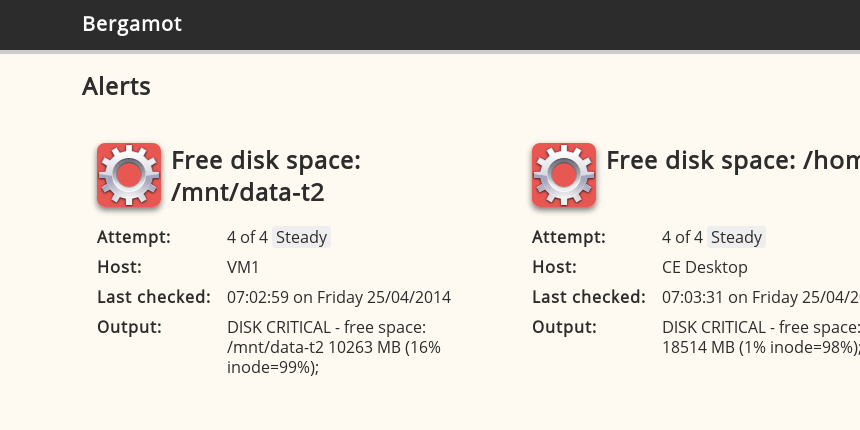
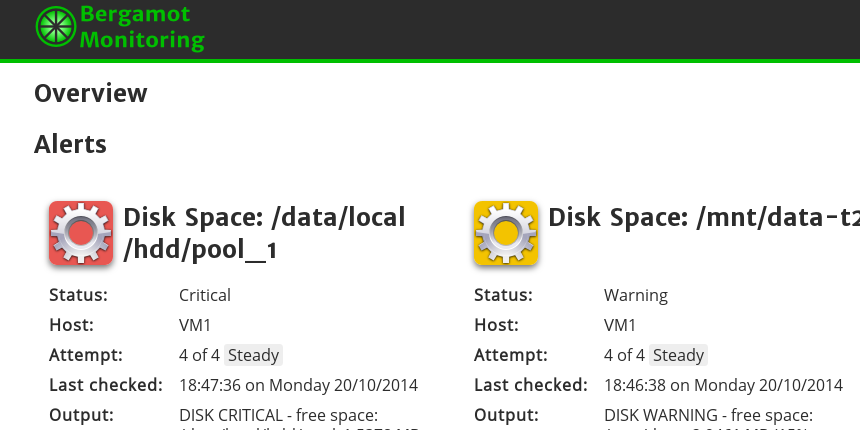
Update site content

diff --git a/src/main/views/faq.md b/src/main/views/faq.md
@@ -2,17 +2,22 @@
 
 ### What is the current state of play?
 
-Bergamot is currently in it's fledgling stages, only being a few days work so far.  It is 
-being actively developed at the moment and will evolve quickly.  As such it is very much an 
-alpha.  But please feel free to get involved, I'd be interested to hear people's toughts, 
-comments, ideas.  I'd be greatful for people willing to give it a try and provide feedback.
+Bergamot Monitoring is a version 1 release, at this stage the core architecture 
+of Bergamot Monitoring is stable but some features are lacking.  The version 1 
+release has all the basic featured needed for a monitoring system and would be 
+acceptable for deployment, feedback would be appreciated.  There will be on 
+going releases, hopefully on a relatively short release cycle, which will focus 
+on adding more features.
 
 ### Is Bergamot a drop-in replacement for Nagios?
 
-That is the plan.  Bergamot is capable of importing Nagios configuration.  Bergamot does 
-not implement all the semantics of Nagios, so there will be some edge-cases where Bergamot 
-is not a drop-in replacement.  Bergamot is perfectly capable of executing Nagios plugins 
-(checks), so worst case you should only need to alter some configuration.
+To an extent.  Bergamot Monitoring is capable of executing Nagios plugins and 
+of directly executing plugins via NRPE.  Bergamot Monitoring does not directly 
+utilise the Nagios configuration format, however a conversion tool can convert 
+a Nagios configuration to Bergamot Monitoring's configuration.  Bergamot 
+Monitoring also does not support Nagios Event Broker modules not does it support 
+LiveStatus.  Bergamot Monitoring has an easy migration path but is not a drop in 
+replacement.
 
 ### Why did you create Bergamot?
 
@@ -31,29 +36,31 @@ modern design, written in a safe, fast and clean language.
 
 Out of the box, Bergamot gives you distributed monitoring.  Workers are loosely coupled via 
 message queues to the core scheduling / result processing.  This single change solves 
-the biggest failing of Nagios, granted this is partially tackled by Naemon.
-
-Read the developer docs, for more details.
+the biggest failing of Nagios.
 
 ### Can Bergamot distribute / load-balance plugin execution?
 
-Yes.  Bergamot uses RabbitMQ by default to queue messages between the Bergamot Master daemon 
-and Bergamot worker daemons.  Routing of messages is flexible and configurable.  Therefore it 
+Yes.  Bergamot uses RabbitMQ by default to queue messages between the Bergamot Master nodes 
+and Bergamot worker nodes.  Routing of messages is flexible and configurable.  Therefore it 
 is possible to have multiple workers executing checks (load-balancing) and also to distribute 
 checks between different queues (distributed monitoring).  There is no limit to the number of 
 workers which can be running, or to the number of queues which can be used.
 
 ### Can Bergamot be configured live?
 
-You bet ya (it will be able to soon).  You can add checks, live, via the UI.  There is no 
-need to restart Bergamot to load configuration changes.  Configuration and state is persisted 
-into a PostgreSQL database.  You will also be able to import configuration, whilst Bergamot 
-is running.  The aim is not never have to restart Bergamot.
+You bet ya.  You can add checks, live, via the UI and API.  Effort is taken to apply 
+configuration changes atomically and with least impact.  The intention is to support small 
+and constant configuration changes.  Modern infrastructures are flexible and changing often, 
+a monitoring system need to cope with this.  Coupled with clustering of all Bergamot Monitoring 
+daemons and the lack of any single point of failure, the aim is not Bergamot Monitoring to have 
+high availability out of the box.
 
 ### Does Bergamot have an API?
 
-It will have.  Clients will be able to execute RPC calls and listen to events.  This will be 
-accessible over RabbitMQ and web-sockets.
+Yes.  Bergamot Monitoring has a rich REST based web services API.  The API can be used to 
+perform any action that can be performed via the web user interface.  In addition a webs socket 
+API can be used to receive realtime updates on checks.  Should more integration be required, 
+the message queues can be used where required.
 
 ### Why did you write it in Java?
 
@@ -75,16 +82,17 @@ Yes.  It is licensed under the terms of the GNU Lesser General Public License (L
 
 ### Does Bergamot support Nagios Event Broker Modules?
 
-No and it probably never will.
+No and it never will!
 
 ### Can Bergamot execute Nagios plugins (checks) ?
 
-Yes.
+Yes and it can talk NRPE natively.
 
 ### Does Bergamot support Livestatus?
 
-Not currently, however we might implement some form of support to allow UI's developed for 
-Nagios to be used with Bergamot.
+No and it probably will not.  It would require alot of work to map between the 
+Bergamot Monitoring data structures and that of Livestatus as well as some 
+differences in the semantic behaviour.
 
 ### Where did the name come from?
 

diff --git a/src/main/views/docs/user/ref/config.md b/src/main/views/docs/user/ref/config.md
@@ -22,7 +22,7 @@ except that every XML file is valid.  Each XML file must start with the
 
     <bergamot site="demo.bergamot-monitoring.org">
         <!-- Configuration elements here -->
-    </bergamot>;
+    </bergamot>
     
 The site attribute corellates configuration for a particular site.  One Bergamot 
 instance is capable of monitoring many, disconnected and isolated sites.  
@@ -83,31 +83,31 @@ will inherit the service `check_load`.  The notification and host check configur
 The service `check_load` would itself inherit from the service `generic-service`.  As such it would inherit the notification and 
 scheduling configuration from `generic-service`.
 
-## Recommended Configuration Directory Structure
+## Suggested Directory Structure
 
     /site.name
-	/templates
-	    /clusters.xml
-	    /commands.xml
-	    /contacts.xml
-	    /hosts.xml
-	    /resources.xml
-	    /services.xml
-	    /traps.xml
-	/global
-	    /contacts.xml
-	    /groups.xml
-	    /locations.xml
-	    /time-periods.xml
-	/some_service
-	    /templates
-		/clusters.xml
-		/hosts.xml
-		/resources.xml
-		/services.xml
-		/traps.xml
-	    /clusters.xml
-	    /hosts.xml
+        /global
+            /contacts.xml
+            /groups.xml
+            /locations.xml
+            /time-periods.xml
+            /templates
+                /clusters.xml
+                /commands.xml
+                /contacts.xml
+                /hosts.xml
+                /resources.xml
+                /services.xml
+                /traps.xml
+        /some_service
+            /templates
+            /clusters.xml
+            /hosts.xml
+            /resources.xml
+            /services.xml
+            /traps.xml
+            /clusters.xml
+            /hosts.xml
 
 ## Common Attributes and Elements
 
@@ -128,6 +128,10 @@ Every check configuration object has a set of common attributes and elements whi
 `<summary>...</summary>` The summary (name displayed within the Web Interface) of the object.
 
 `<description>...</description>` The long (multi-line) description of the object, used within the Web Interface.
+
+`<parameter name="...">...</parameter>` All configuration object can have arbitrary name value pair parameters defined, 
+these can then be referenced in value expressions, allowing for configuration to be defined where logical rather then 
+where it is defined.  
 
 ## Configuring A Location
 
@@ -316,6 +320,26 @@ To make life easier, a more specific Command can be defined, for example:
         <parameter name="command">check_load</parameter>
     </command>
 
+You can use the expression language to pull parameters from related objects and 
+to find the first non-null value.  For example, for SNMP checks we can define 
+the SNMP community name at the `<location>` level and use this as the default 
+for all hosts in that location, permitting overriding at the host level.
+
+    <location name="my-datacentre">
+        <parameter name="snmp_community">public</parameter>
+    </location>
+    
+    <host name="some-host" location="my-datacentre">
+    </host>
+    
+    <host name="another-host" location="my-datacentre">
+        <parameter name="snmp_community">private</parameter>
+    </host>
+    
+    <command name="check_snmp_name">
+        <parameter name="snmp_community">#{coalesce(host.getParameter('snmp_community'), host.location.getParameter('snmp_community'), 'public')}</parameter>
+    </command>
+
 ## Configuring Checks
 
 Bergamot has a few different types of checks:
@@ -340,7 +364,9 @@ monitor what executes on the Host.
 
 
 
+## Advice For Sane Configuration
 
+### Define 
 
 
 

diff --git a/src/main/views/getit.md b/src/main/views/getit.md
@@ -1,3 +1,78 @@
 # Get it
 
+## Virtual Appliance
 
+You can download a pre-installed Bergamot Monitoring appliance.  This appliance 
+comes with everything you need and will work out of the box (just add a DNS 
+entry).  The appliance is designed to run on LibVirt / KVM and comes with a disk 
+image and associated domain definition file.
+
+The appliance is based on openSUSE 13.1 and is perfect to get up and running 
+quickly it has all the required daemons pre-installed and is acceptable for 
+small deployments.  As everything is contained on one VM it offers no redundancy.
+
+You can download the appliance from [https://downloads.bergamot-monitoring.org/img/bergamot-monitoring.tar.xz](https://downloads.bergamot-monitoring.org/img/bergamot-monitoring.tar.xz)
+
+Note: extracted the appliance is 4GiB in size and requires at least 2GiB of RAM.
+
+## Packages
+
+You can download our RPMs from our OBS repository, we primarily provide packages 
+for openSUSE.  However untested packages are provided for: Centos 7, Red Hat 7.
+
+* [openSUSE 13.1](http://obs.intrbiz.net:82/Bergamot/openSUSE_13.1/)
+* [Centos 7](http://obs.intrbiz.net:82/Bergamot/CentOS_7/)
+* [RHEL 7](http://obs.intrbiz.net:82/Bergamot/RHEL_7/)
+
+## Binaries
+
+You can download binary application archives from our download site: [https://downloads.bergamot-monitoring.org/](https://downloads.bergamot-monitoring.org/)
+
+### Bergamot Monitoring V1.0.0 - Latest
+
+* [Bergamot UI application](https://downloads.bergamot-monitoring.org/app/1.0.0/bergamot-ui-1.0.0.app)
+* [Bergamot Nagios Worker application](https://downloads.bergamot-monitoring.org/app/1.0.0/bergamot-worker-nagios-1.0.0.app)
+
+## Maven Repository
+
+If you intend to build against any of the Bergamot Monitoring libraries you will 
+need to add our Maven Repository to your POM.
+
+    <repositories>
+        <repository>
+            <id>snapshots</id>
+            <url>http://nexus.intrbiz.net/nexus/content/repositories/snapshots</url>
+            <snapshots>
+                <enabled>true</enabled>
+            </snapshots>
+        </repository>
+        <repository>
+            <id>intrbiz</id>
+            <name>Intrbiz</name>
+            <url>http://nexus.intrbiz.net/nexus/content/repositories/releases</url>
+        </repository>
+    </repositories>
+    
+    <pluginRepositories>
+        <pluginRepository>
+            <id>snapshots</id>
+            <url>http://nexus.intrbiz.net/nexus/content/repositories/snapshots</url>
+            <snapshots>
+                <enabled>true</enabled>
+            </snapshots>
+        </pluginRepository>
+        <pluginRepository>
+            <id>intrbiz</id>
+            <name>Intrbiz</name>
+            <url>http://nexus.intrbiz.net/nexus/content/repositories/releases</url>
+        </pluginRepository>
+    </pluginRepositories>
+
+## Source Code
+
+You can fine the source code to Bergamot Monitoring on GitHub: [https://github.com/intrbiz/bergamot](https://github.com/intrbiz/bergamot)
+
+To build Bergamot Monitoring, you will need Java 8 JDK and Apache Maven.  You 
+can use the Eclipse Maven extensions to import the project into Eclipse.  You 
+will probably also want PostgreSQL 9.3 and RabbitMQ installed on your development 
+machine.

diff --git a/src/main/views/index.md b/src/main/views/index.md
@@ -1,19 +1,21 @@
-# What is Bergamot?
+# What is Bergamot Monitoring?
 
-Bergamot is a simple, scalable and distributed monitoring system which offers an easy migration path from Nagios.  
-Bergamot is written in Java and makes use of RabbitMQ to distribute checks.  It is able to read the Nagios object 
-configuration and is able to execute Nagios checks.
+Bergamot Monitoring is an Open Source distributed monitoring system which has an
+easy migration path from Nagios.  Bergamot Monitoring has a range of compelling 
+features which make it a ideal for modern cloud based infrastructures.
 
 ![Bergamot Dashboard Screenshot](/images/dashboard_sample.png)
 
-## Features
+[Screenshots](/screenshots)
 
-* Nagios compatible - can import Nagios configuration and execute Nagios plugins
-* Native NRPE implementation - efficient and scalable NRPE check execution, no fork!
-* Notifications - email notifications when a check fails
-* Distributed - uses RabbitMQ to distribute checks among a pool of servers
-* Scalable - able to share load over a number of servers
-* Modern - written in a safe, managed language, with a clean code base
+## Highlights
+
+* Nagios compatible - can execute Nagios plugins, can import Nagios configuration
+* Native NRPE implementation - efficient and scalable NRPE check execution, no forking!
+* Distributed - uses RabbitMQ to distribute checks among a pool of workers
+* Persistent - all state is stored persistently in PostgreSQL
+* Scalable - split all processing over multiple nodes
+* Modern - written in a safe, managed language
 * Modular - plugable check engine, notification engines, etc
 
 ## Mission
@@ -39,16 +41,12 @@ Bergamot is in it's early stages, but has the core fundamental elements of a mon
 currently able to import a Nagios configuration and execute Nagios checks, it has a very minimalist UI to view the 
 status of checks.
 
-## Roadmap
+## Test Drive
 
-To be viable, the following key features are missing:
+Try out our [demon instance](/demo)
 
-* Persistence - the core object model should be persisted into a database
-* Notifications - it's probably helpful to be able to send emails
-* UI - the current UI is minimalist to say the least
+## Give It A Go
 
-## Authors and Contributors
-
-Bergamot is a personal project of Chris Ellis [@intrbiz](https://twitter.com/intrbiz)
+Download our virtual appliance to get up and running immediately.
 
 

diff --git a/src/main/views/people.md b/src/main/views/people.md
@@ -1,0 +1,13 @@
+# Bergamot Monitoring Contributors
+
+Bergamot Monitoring was founded and is led by Chris Ellis [@intrbiz](https://twitter.com/intrbiz).
+
+## Contributors
+
+## Getting In Touch
+
+If you want to get involved or talk about Bergamot Monitoring, then feel free 
+to join one of our mailing lists:
+
+* Bergamot Monitoring Users - 
+* Bergamot Monitoring Development - All development related stuff

diff --git a/src/main/views/demo.md b/src/main/views/demo.md
@@ -1,3 +1,6 @@
 # Demo
 
-Currently not running.
+Feel free to log into our demo instance of Bergamot Monitoring: [https://demo.bergamot-monitoring.org/](https://demo.bergamot-monitoring.org/).
+
+You will need to login with the username `op` and the password `bergamot`, this account has 
+restricted permissions and does not have access to all the functionality of Bergamot Monitoring.

diff --git a/src/main/views/screenshots.md b/src/main/views/screenshots.md
@@ -1,0 +1,5 @@
+# Bergamot Monitoring Screenshots
+
+## Overview
+
+![Bergamot Monitoring Overview](/images/screenshots/Bergamot_Monitoring_-_Overview_-_2014-10-20_18.51.05.png)
